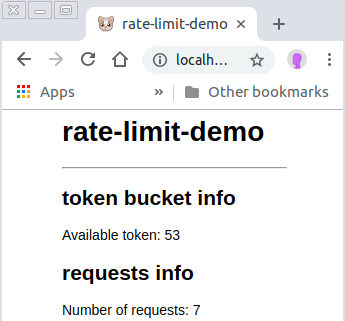
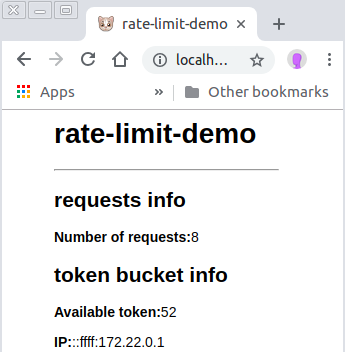
feat: display ip on index

diff --git a/src/routes/index.js b/src/routes/index.js
@@ -7,6 +7,7 @@ router.get('/', (req, res) => {
   res.render('index', {
     title: 'rate-limit-demo',
     remaining: req.rateLimit.remaining,
+    key: req.ip,
     count: req.rateLimit.count
   });
 });
